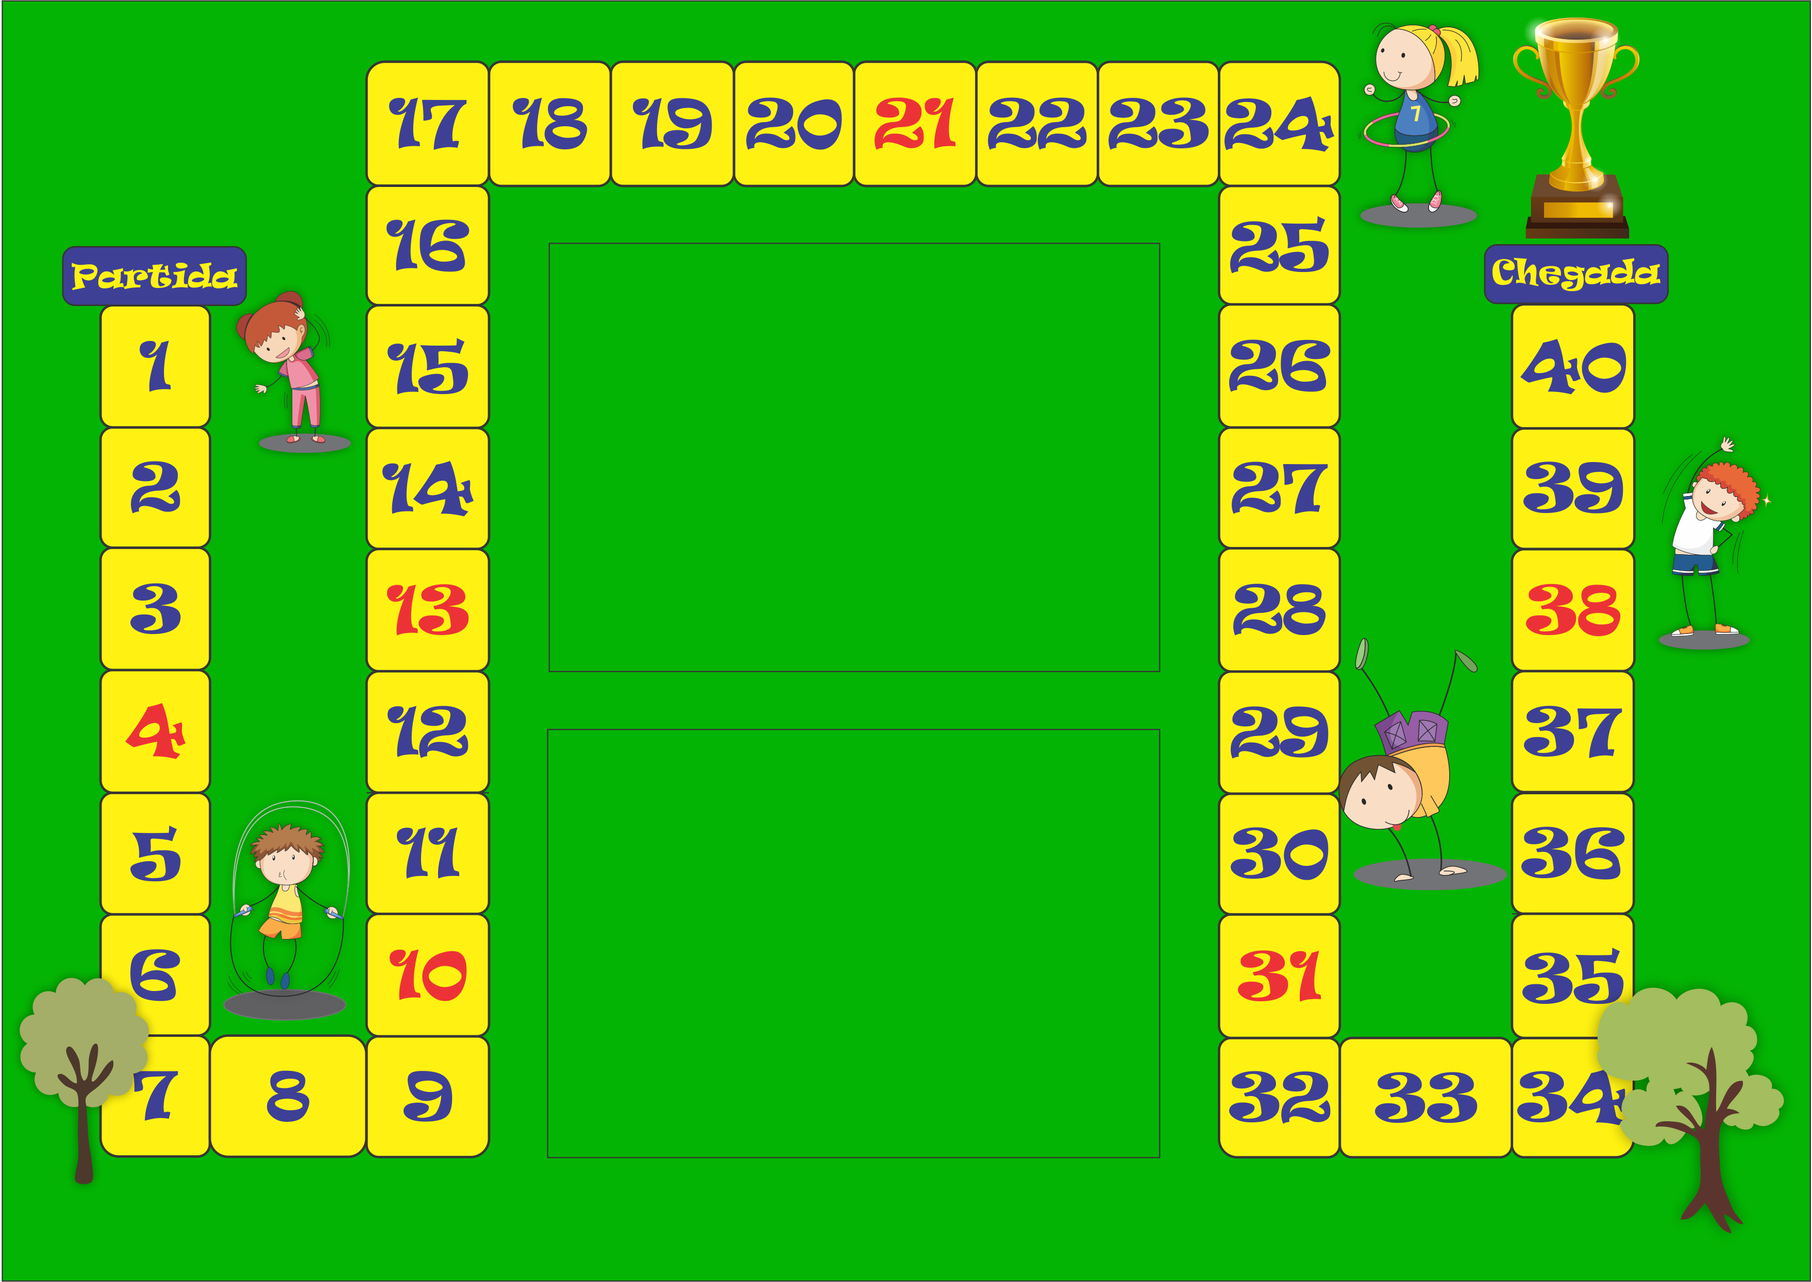
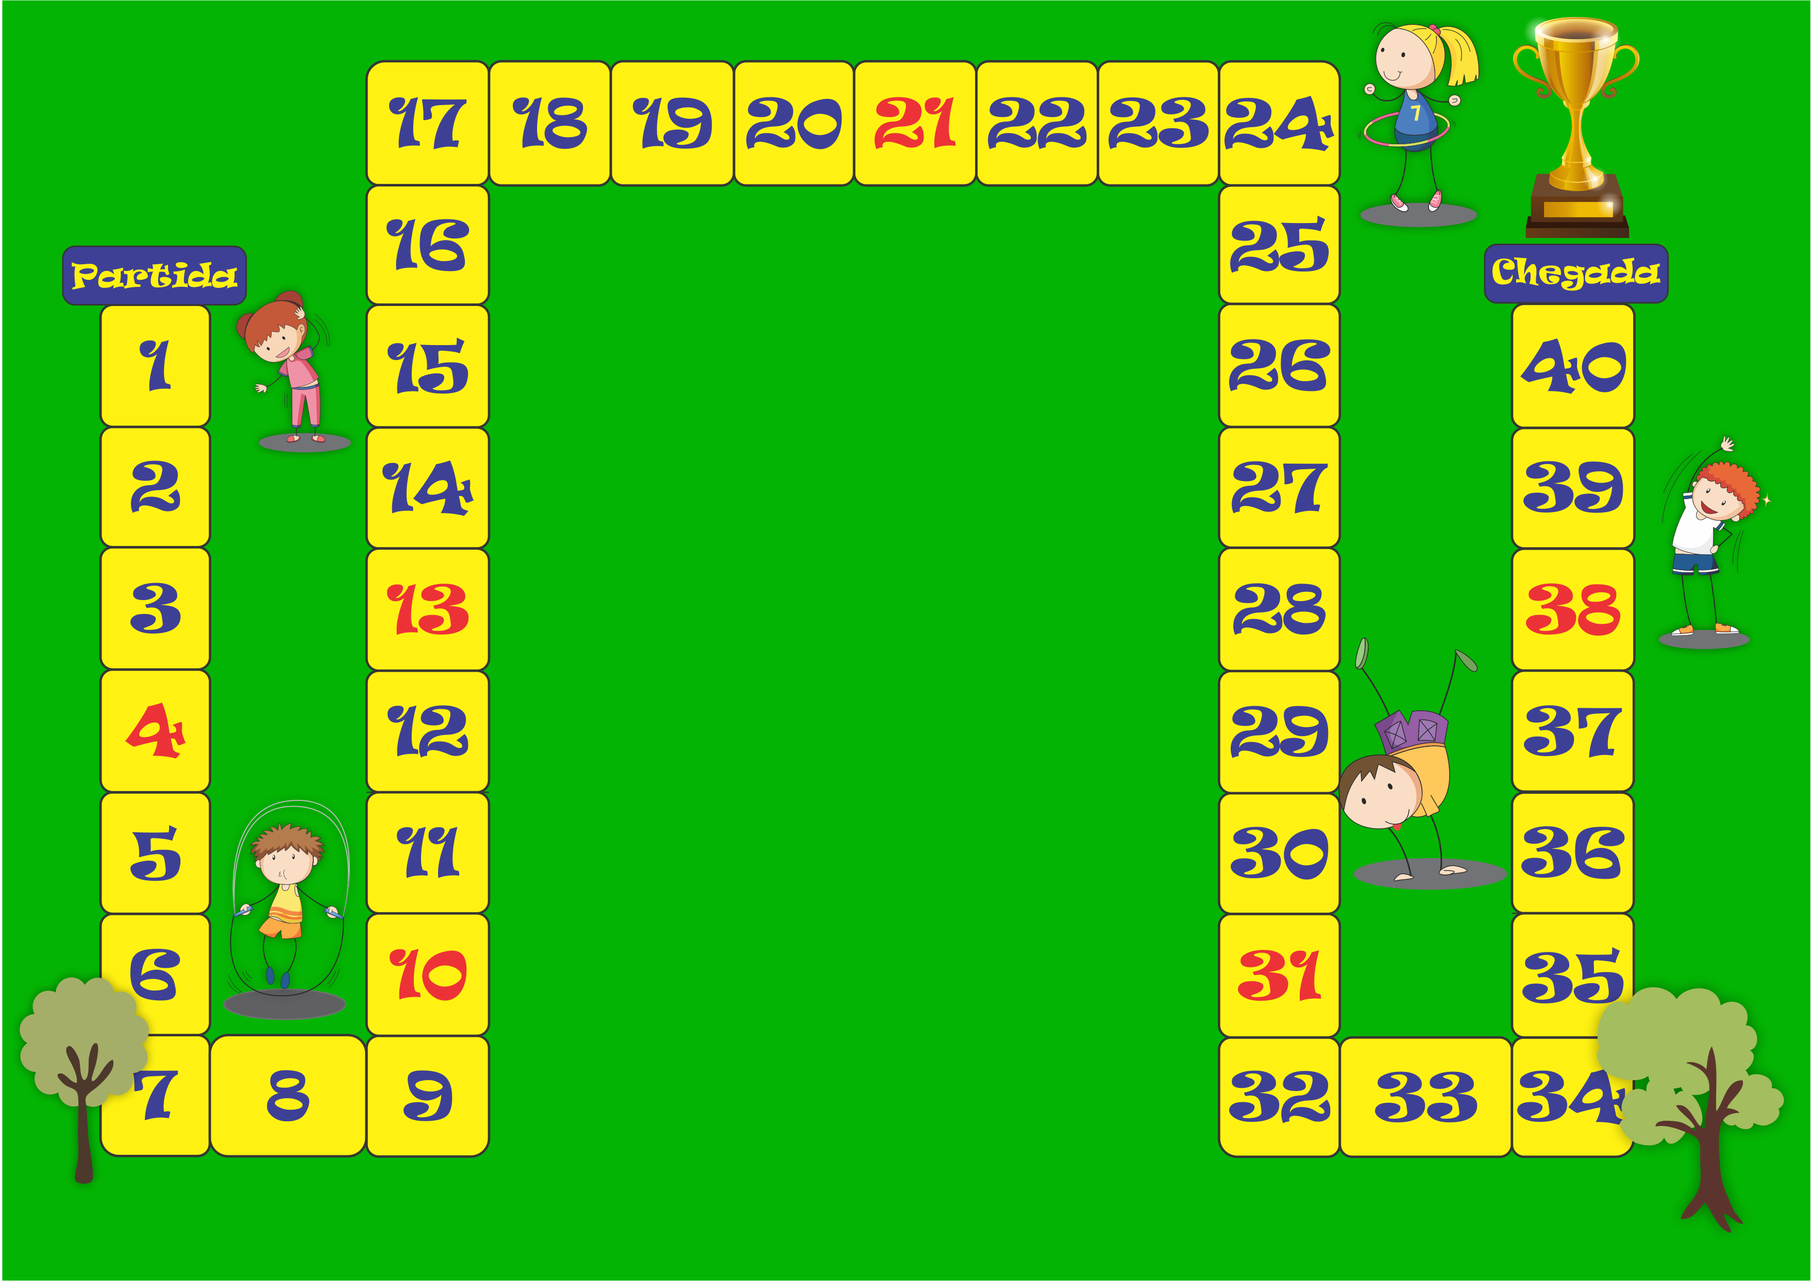
Atualizacao Jogo Tabuleiro, perguntas fixas

Changed region(s): [[0.0, 0.0, 1.0, 1.0], [0.775, 0.0619, 0.806, 0.0929], [0.775, 0.0, 0.806, 0.031]]

diff --git a/ClinicaMedica/Jogo-Tabuleiro.php b/ClinicaMedica/Jogo-Tabuleiro.php
@@ -271,7 +271,7 @@
 
 
     </head>
-    <body>
+    <body style="background-color: rgb(4,180,4)">
 
         <script type="text/javascript" src="js/ajaxtabuleiro.js"></script>
 
@@ -281,139 +281,158 @@
             <map name="mapaTabuleiro">
 
                     <img src="Dado/face1.JPG" alt="dado" id="face" style="margin-left: 1470px; margin-top: 1650px;" onclick="startTimer()">
-                    <img id="0" src="Img_Prog/tabuleiro/player.png" style="height: 300px; width: 200px; margin-left: 210px; margin-top: 270px;">
+                    <img id="0" src="Img_Prog/tabuleiro/player.png" style="height: 300px; width: 200px; margin-left: 210px; margin-top: 270px; position:absolute;">
                     <area title="partida" shape="rect" coords="121,481,476,590" />
 
-                    <img id="1" src="Img_Prog/tabuleiro/player.png" style="height: 300px; width: 200px; margin-left: 210px; margin-top: 500px;" hidden="true">
+                    <img id="1" src="Img_Prog/tabuleiro/player.png" style="height: 300px; width: 200px; margin-left: 210px; margin-top: 500px; position:absolute;" hidden="true">
                     <area title="1" shape="rect" coords="198,598,405,826" />
 
-                    <img id="2" src="Img_Prog/tabuleiro/player.png" style="height: 300px; width: 200px; margin-left: 210px; margin-top: 720px;" hidden="true">
+                    <img id="2" src="Img_Prog/tabuleiro/player.png" style="height: 300px; width: 200px; margin-left: 210px; margin-top: 720px; position:absolute;" hidden="true">
                     <area title="2" shape="rect" coords="200,834,404,1058" />
 
-                    <img id="3" src="Img_Prog/tabuleiro/player.png" style="height: 300px; width: 200px; margin-left: 210px; margin-top: 950px;" hidden="true">
+                    <img id="3" src="Img_Prog/tabuleiro/player.png" style="height: 300px; width: 200px; margin-left: 210px; margin-top: 950px; position:absolute;" hidden="true">
                     <area title="3" shape="rect" coords="199,1065,400,1297" />
 
-                    <img id="4" src="Img_Prog/tabuleiro/player.png" style="height: 300px; width: 200px; margin-left: 210px; margin-top: 1180px;" hidden="true">
+                    <img id="4" src="Img_Prog/tabuleiro/player.png" style="height: 300px; width: 200px; margin-left: 210px; margin-top: 1180px; position:absolute;" hidden="true">
                     <area title="4" shape="rect" coords="201,1304,403,1535" />
     
-                    <img id="5" src="Img_Prog/tabuleiro/player.png" style="height: 300px; width: 200px; margin-left: 210px; margin-top: 1430px;" hidden="true">
+                    <img id="5" src="Img_Prog/tabuleiro/player.png" style="height: 300px; width: 200px; margin-left: 210px; margin-top: 1430px; position:absolute;" hidden="true">
                     <area title="5" shape="rect" coords="200,1542,402,1770" />
  
-                    <img id="6" src="Img_Prog/tabuleiro/player.png" style="height: 300px; width: 200px; margin-left: 210px; margin-top: 1650px;" hidden="true">
+                    <img id="6" src="Img_Prog/tabuleiro/player.png" style="height: 300px; width: 200px; margin-left: 210px; margin-top: 1650px; position:absolute;" hidden="true">
                     <area title="6" shape="rect" coords="203,1778,405,2006" />
    
-                    <img id="7" src="Img_Prog/tabuleiro/player.png" style="height: 300px; width: 200px; margin-left: 210px; margin-top: 1890px;" hidden="true">
+                    <img id="7" src="Img_Prog/tabuleiro/player.png" style="height: 300px; width: 200px; margin-left: 210px; margin-top: 1890px; position:absolute;" hidden="true">
                     <area title="7" shape="rect" coords="195,2013,401,2241" />
  
-                    <img id="8" src="Img_Prog/tabuleiro/player.png" style="height: 300px; width: 200px; margin-left: 470px; margin-top: 1890px;" hidden="true">
+                    <img id="8" src="Img_Prog/tabuleiro/player.png" style="height: 300px; width: 200px; margin-left: 470px; margin-top: 1890px; position:absolute;" hidden="true">
                     <area title="8" shape="rect" coords="407,2012,705,2244" />
 
-                    <img id="9" src="Img_Prog/tabuleiro/player.png" style="height: 300px; width: 200px; margin-left: 740px; margin-top: 1890px;" hidden="true">
+                    <img id="9" src="Img_Prog/tabuleiro/player.png" style="height: 300px; width: 200px; margin-left: 740px; margin-top: 1890px; position:absolute;" hidden="true">
                     <area title="9" shape="rect" coords="713,2015,947,2247" />
  
-                    <img id="10" src="Img_Prog/tabuleiro/player.png" style="height: 300px; width: 200px; margin-left: 740px; margin-top: 1660px;" hidden="true">
+                    <img id="10" src="Img_Prog/tabuleiro/player.png" style="height: 300px; width: 200px; margin-left: 740px; margin-top: 1660px; position:absolute;" hidden="true">
                     <area title="10" shape="rect" coords="718,1775,943,2007" />
 
-                    <img id="11" src="Img_Prog/tabuleiro/player.png" style="height: 300px; width: 200px; margin-left: 740px; margin-top: 1430px;" hidden="true">
+                    <img id="11" src="Img_Prog/tabuleiro/player.png" style="height: 300px; width: 200px; margin-left: 740px; margin-top: 1430px; position:absolute;" hidden="true">
                     <area title="11" shape="rect" coords="716,1542,949,1772" />
       
-                    <img id="12" src="Img_Prog/tabuleiro/player.png" style="height: 300px; width: 200px; margin-left: 740px; margin-top: 1180px;" hidden="true">
+                    <img id="12" src="Img_Prog/tabuleiro/player.png" style="height: 300px; width: 200px; margin-left: 740px; margin-top: 1180px; position:absolute;" hidden="true">
                     <area title="12" shape="rect" coords="715,1307,948,1537" />
          
-                    <img id="13" src="Img_Prog/tabuleiro/player.png" style="height: 300px; width: 200px; margin-left: 740px; margin-top: 950px;" hidden="true">
+                    <img id="13" src="Img_Prog/tabuleiro/player.png" style="height: 300px; width: 200px; margin-left: 740px; margin-top: 950px; position:absolute;" hidden="true">
                     <area title="13" shape="rect" coords="713,1068,946,1298" />
           
-                    <img id="14" src="Img_Prog/tabuleiro/player.png" style="height: 300px; width: 200px; margin-left: 740px; margin-top: 720px;" hidden="true">
+                    <img id="14" src="Img_Prog/tabuleiro/player.png" style="height: 300px; width: 200px; margin-left: 740px; margin-top: 720px; position:absolute;" hidden="true">
                     <area title="14" shape="rect" coords="711,834,944,1064" />
        
-                    <img id="15" src="Img_Prog/tabuleiro/player.png" style="height: 300px; width: 200px; margin-left: 740px; margin-top: 490px;" hidden="true">
+                    <img id="15" src="Img_Prog/tabuleiro/player.png" style="height: 300px; width: 200px; margin-left: 740px; margin-top: 490px; position:absolute;" hidden="true">
                     <area title="15" shape="rect" coords="713,596,946,826" />
   
-                    <img id="16" src="Img_Prog/tabuleiro/player.png" style="height: 300px; width: 200px; margin-left: 740px; margin-top: 260px;" hidden="true">
-                    <area title="16" shape="rect" coords="714,362,947,592" />
+                    <img id="16" src="Img_Prog/tabuleiro/player.png" style="height: 300px; width: 200px; margin-left: 740px; margin-top: 260px; position:absolute;" hidden="true">
+                    <area title="16" shape="rect" coords="714,362,947,592" /> 
       
-                    <img id="17" src="Img_Prog/tabuleiro/player.png" style="height: 300px; width: 200px; margin-left: 740px; margin-top: 20px;" hidden="true">
+                    <img id="17" src="Img_Prog/tabuleiro/player.png" style="height: 300px; width: 200px; margin-left: 740px; margin-top: 20px; position:absolute;" hidden="true">
                     <area title="17" shape="rect" coords="711,119,944,357" />
     
-                    <img id="18" src="Img_Prog/tabuleiro/player.png" style="height: 300px; width: 200px; margin-left: 990px; margin-top: 20px;" hidden="true">
+                    <img id="18" src="Img_Prog/tabuleiro/player.png" style="height: 300px; width: 200px; margin-left: 990px; margin-top: 20px; position:absolute;" hidden="true">
                     <area title="18" shape="rect" coords="953,121,1183,358" />
     
-                    <img id="19" src="Img_Prog/tabuleiro/player.png" style="height: 300px; width: 200px; margin-left: 1220px; margin-top: 20px;" hidden="true">
+                    <img id="19" src="Img_Prog/tabuleiro/player.png" style="height: 300px; width: 200px; margin-left: 1220px; margin-top: 20px; position:absolute;" hidden="true">
                     <area title="19" shape="rect" coords="1187,120,1420,358" />
             
-                    <img id="20" src="Img_Prog/tabuleiro/player.png" style="height: 300px; width: 200px; margin-left: 1450px; margin-top: 20px;" hidden="true">
+                    <img id="20" src="Img_Prog/tabuleiro/player.png" style="height: 300px; width: 200px; margin-left: 1450px; margin-top: 20px; position:absolute;" hidden="true">
                     <area title="20" shape="rect" coords="1427,121,1660,359" >
           
-                    <img id="21" src="Img_Prog/tabuleiro/player.png" style="height: 300px; width: 200px; margin-left: 1690px; margin-top: 20px;" hidden="true">
+                    <img id="21" src="Img_Prog/tabuleiro/player.png" style="height: 300px; width: 200px; margin-left: 1690px; margin-top: 20px; position:absolute;" hidden="true">
                     <area title="21" shape="rect" coords="1661,121,1894,359" />
         
-                    <img id="22" src="Img_Prog/tabuleiro/player.png" style="height: 300px; width: 200px; margin-left: 1920px; margin-top: 20px;" hidden="true">
+                    <img id="22" src="Img_Prog/tabuleiro/player.png" style="height: 300px; width: 200px; margin-left: 1920px; margin-top: 20px; position:absolute;" hidden="true">
                     <area title="22" shape="rect" coords="1895,120,2127,360" />
          
-                    <img id="23" src="Img_Prog/tabuleiro/player.png" style="height: 300px; width: 200px; margin-left: 2160px; margin-top: 20px;" hidden="true">
+                    <img id="23" src="Img_Prog/tabuleiro/player.png" style="height: 300px; width: 200px; margin-left: 2160px; margin-top: 20px; position:absolute;" hidden="true">
                     <area title="23" shape="rect" coords="2134.9999389648438,123,2367.9999389648438,361" />
 
-                    <img id="24" src="Img_Prog/tabuleiro/player.png" style="height: 300px; width: 200px; margin-left: 2390px; margin-top: 20px;" hidden="true">
+                    <img id="24" src="Img_Prog/tabuleiro/player.png" style="height: 300px; width: 200px; margin-left: 2390px; margin-top: 20px; position:absolute;" hidden="true">
                     <area title="24" shape="rect" coords="2368,119,2600,359" />
   
-                    <img id="25" src="Img_Prog/tabuleiro/player.png" style="height: 300px; width: 200px; margin-left: 2390px; margin-top: 260px;" hidden="true">
+                    <img id="25" src="Img_Prog/tabuleiro/player.png" style="height: 300px; width: 200px; margin-left: 2390px; margin-top: 260px; position:absolute;" hidden="true">
                     <area title="25" shape="rect" coords="2368,365,2600,588" />
 
-                    <img id="26" src="Img_Prog/tabuleiro/player.png" style="height: 300px; width: 200px; margin-left: 2390px; margin-top: 490px;" hidden="true">
+                    <img id="26" src="Img_Prog/tabuleiro/player.png" style="height: 300px; width: 200px; margin-left: 2390px; margin-top: 490px; position:absolute;" hidden="true">
                     <area title="26" shape="rect" coords="2369,593,2601,829" />
          
-                    <img id="27" src="Img_Prog/tabuleiro/player.png" style="height: 300px; width: 200px; margin-left: 2390px; margin-top: 730px;" hidden="true">
+                    <img id="27" src="Img_Prog/tabuleiro/player.png" style="height: 300px; width: 200px; margin-left: 2390px; margin-top: 730px; position:absolute;" hidden="true">
                     <area title="27" shape="rect" coords="2369,831,2601,1067" />
     
-                    <img id="28" src="Img_Prog/tabuleiro/player.png" style="height: 300px; width: 200px; margin-left: 2390px; margin-top: 960px;" hidden="true">
+                    <img id="28" src="Img_Prog/tabuleiro/player.png" style="height: 300px; width: 200px; margin-left: 2390px; margin-top: 960px; position:absolute;" hidden="true">
                     <area title="28" shape="rect" coords="2367.9999389648438,1067.9999389648438,2599.9999389648438,1303.9999389648438" />
     
-                    <img id="29" src="Img_Prog/tabuleiro/player.png" style="height: 300px; width: 200px; margin-left: 2390px; margin-top: 1200px;" hidden="true">
+                    <img id="29" src="Img_Prog/tabuleiro/player.png" style="height: 300px; width: 200px; margin-left: 2390px; margin-top: 1200px; position:absolute;" hidden="true">
                     <area title="29" shape="rect" coords="2367,1305,2599,1541" />
            
-                    <img id="30" src="Img_Prog/tabuleiro/player.png" style="height: 300px; width: 200px; margin-left: 2390px; margin-top: 1440px;" hidden="true">
+                    <img id="30" src="Img_Prog/tabuleiro/player.png" style="height: 300px; width: 200px; margin-left: 2390px; margin-top: 1440px; position:absolute;" hidden="true">
                     <area title="30" shape="rect" coords="2367,1542,2599,1778" />
          
-                    <img id="31" src="Img_Prog/tabuleiro/player.png" style="height: 300px; width: 200px; margin-left: 2390px; margin-top: 1670px;" hidden="true">
+                    <img id="31" src="Img_Prog/tabuleiro/player.png" style="height: 300px; width: 200px; margin-left: 2390px; margin-top: 1670px; position:absolute;" hidden="true">
                     <area title="31" shape="rect" coords="2369,1778,2601,2014" />
            
-                    <img id="32" src="Img_Prog/tabuleiro/player.png" style="height: 300px; width: 200px; margin-left: 2390px; margin-top: 1910px;" hidden="true">
+                    <img id="32" src="Img_Prog/tabuleiro/player.png" style="height: 300px; width: 200px; margin-left: 2390px; margin-top: 1910px; position:absolute;" hidden="true">
                     <area title="32" shape="rect" coords="2369,2018,2601,2246" />
      
-                    <img id="33" src="Img_Prog/tabuleiro/player.png" style="height: 300px; width: 200px; margin-left: 2690px; margin-top: 1910px;" hidden="true">
+                    <img id="33" src="Img_Prog/tabuleiro/player.png" style="height: 300px; width: 200px; margin-left: 2690px; margin-top: 1910px; position:absolute;" hidden="true">
                     <area title="33" shape="rect" coords="2605,2015,2931,2247" />
          
-                    <img id="34" src="Img_Prog/tabuleiro/player.png" style="height: 300px; width: 200px; margin-left: 2970px; margin-top: 1910px;" hidden="true">
+                    <img id="34" src="Img_Prog/tabuleiro/player.png" style="height: 300px; width: 200px; margin-left: 2970px; margin-top: 1910px; position:absolute;" hidden="true">
                     <area title="34" shape="rect" coords="2937,2013,3171,2246" />
         
-                    <img id="35" src="Img_Prog/tabuleiro/player.png" style="height: 300px; width: 200px; margin-left: 2970px; margin-top: 1670px;" hidden="true">
+                    <img id="35" src="Img_Prog/tabuleiro/player.png" style="height: 300px; width: 200px; margin-left: 2970px; margin-top: 1670px; position:absolute;" hidden="true">
                     <area title="35" shape="rect" coords="2938,1775,3172,2012" />
       
-                    <img  id="36" src="Img_Prog/tabuleiro/player.png" style="height: 300px; width: 200px; margin-left: 2970px; margin-top: 1440px;" hidden="true">
+                    <img  id="36" src="Img_Prog/tabuleiro/player.png" style="height: 300px; width: 200px; margin-left: 2970px; margin-top: 1440px; position:absolute;" hidden="true">
                     <area title="36" shape="rect" coords="2936,1538,3170,1775" />
        
-                    <img id="37" src="Img_Prog/tabuleiro/player.png" style="height: 300px; width: 200px; margin-left: 2970px; margin-top: 1200px;" hidden="true">
+                    <img id="37" src="Img_Prog/tabuleiro/player.png" style="height: 300px; width: 200px; margin-left: 2970px; margin-top: 1200px; position:absolute;" hidden="true">
                     <area title="37" shape="rect" coords="2934,1301,3168,1538" />
         
-                    <img id="38" src="Img_Prog/tabuleiro/player.png" style="height: 300px; width: 200px; margin-left: 2970px; margin-top: 960px;" hidden="true">
+                    <img id="38" src="Img_Prog/tabuleiro/player.png" style="height: 300px; width: 200px; margin-left: 2970px; margin-top: 960px; position:absolute;" hidden="true">
                     <area title="38" shape="rect" coords="2936,1067,3170,1304" />
       
-                    <img id="39" src="Img_Prog/tabuleiro/player.png" style="height: 300px; width: 200px; margin-left: 2970px; margin-top: 730px;" hidden="true">
+                    <img id="39" src="Img_Prog/tabuleiro/player.png" style="height: 300px; width: 200px; margin-left: 2970px; margin-top: 730px; position:absolute;" hidden="true">
                     <area title="39" shape="rect" coords="2935,833,3169,1064" />
           
-                    <img id="40" src="Img_Prog/tabuleiro/player.png" style="height: 300px; width: 200px; margin-left: 2970px; margin-top: 500px;" hidden="true">
+                    <img id="40" src="Img_Prog/tabuleiro/player.png" style="height: 300px; width: 200px; margin-left: 2970px; margin-top: 500px; position:absolute;" hidden="true">
                     <area title="40" shape="rect" coords="2935,594,3169,831" />
       
-                    <img id="41" src="Img_Prog/tabuleiro/player.png" style="height: 300px; width: 200px; margin-left: 2970px; margin-top: 250px;" hidden="true">
+                    <img id="41" src="Img_Prog/tabuleiro/player.png" style="height: 300px; width: 200px; margin-left: 2970px; margin-top: 250px; position:absolute;" hidden="true">
                     <area title="chegada" shape="rect" coords="2884,476,3239,585" />
-               
+
+
 
                 <area id="dado" title="dado" shape="rect" coords="126,98,481,364" />
                 <area id="perguntas" title="perguntas" shape="rect" coords="1067,471,2249,1303" />
                 <area id="video" title="video" shape="rect" coords="1066,1417,2248,2249" />
             </map>  
 
-
+            <div id="test3" class="col s12 m12 l12 grey darken-3" style="margin-left: 1040px; margin-top: 500px; height: 1000px; width: 1250px; position:absolute;">
+                <div class="row">
+                    <div class="col s12 m12 l12">
+                        <div class="card-panel  grey darken-2" style="border-radius: 0px;">
+                            <h3 class="ralewayFont center white-text ralewayFont"> Pergunta </h3>                           
+                        </div>                        
+                    </div>
+                </div>
+                <div class="row">
+                    <div class="col s8 m8 l8 offset-s2 offset-m2 offset-l2">
+                        <div class="collection">
+                            <a href="#!" class="collection-item">Alvin</a>
+                            <a href="#!" class="collection-item">Alvin</a>
+                            <a href="#!" class="collection-item">Alvin</a>
+                            <a href="#!" class="collection-item">Alvin</a>
+                        </div>
+                    </div>
+                </div>
+            </div>
         <!-- PERGUNTAS -->
 
         <br><br><br>
